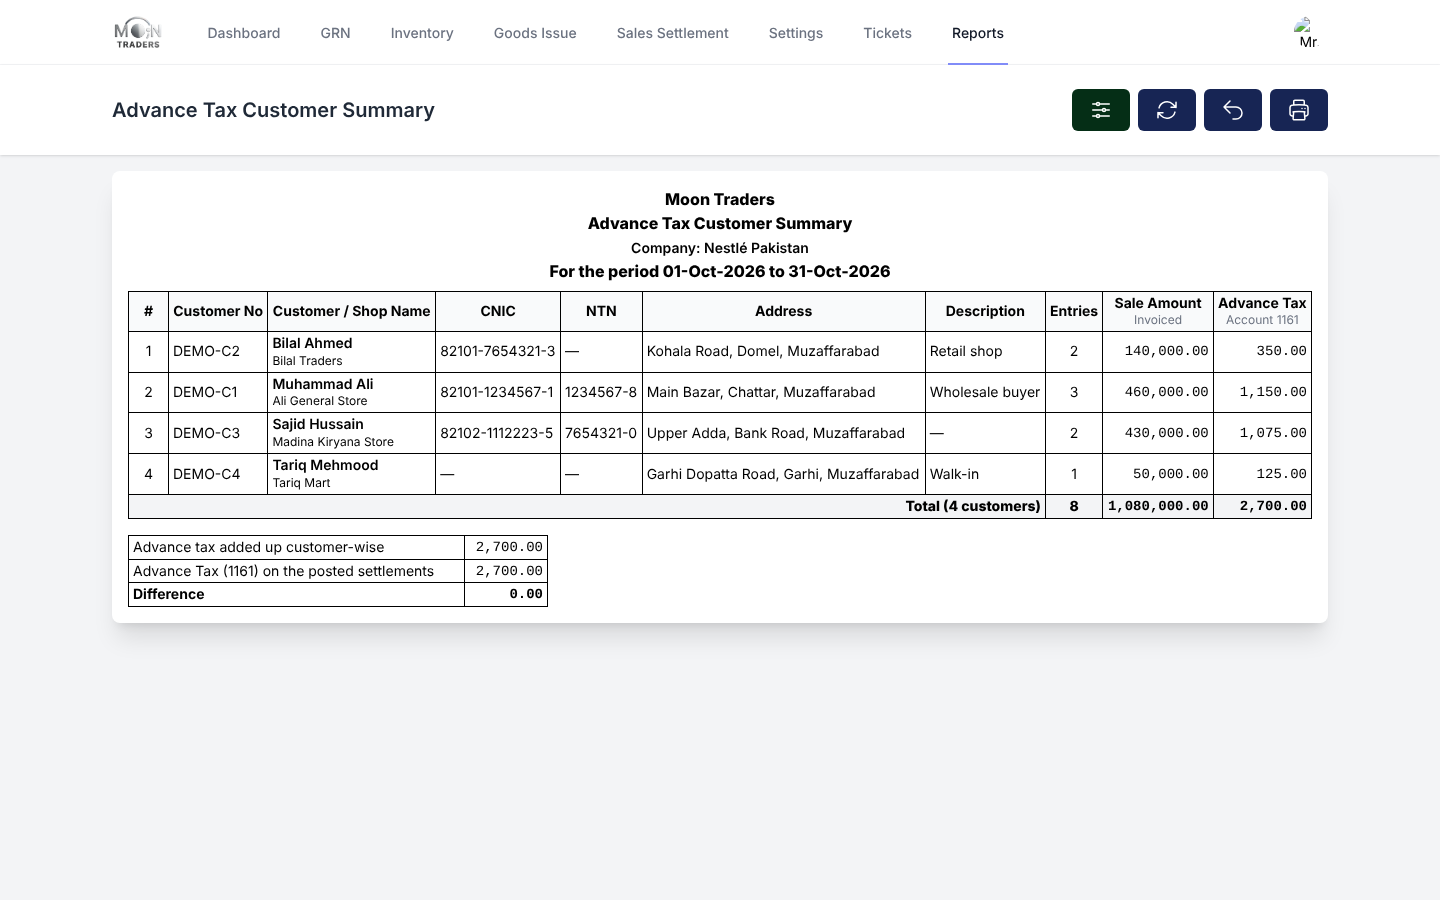
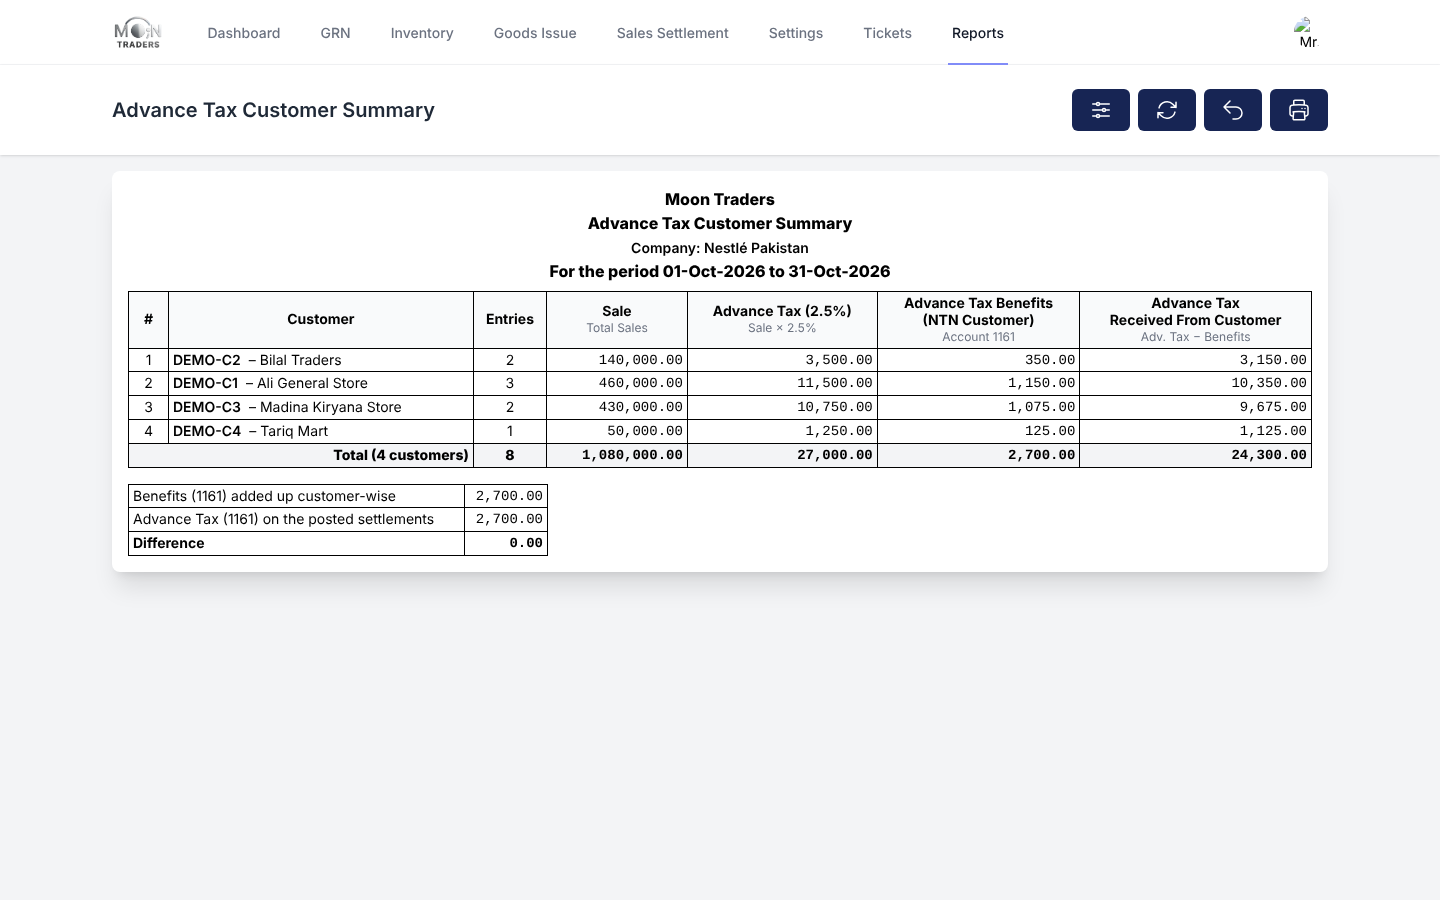
Advance Tax Customer Summary: register-style columns, customer as one column
Customer is now one column (customer code and shop name). Columns after it follow the
Advance Tax Sales Register: Entries, Sale (Total Sales), Advance Tax (2.5%), Advance Tax
Benefits (NTN Customer, account 1161) and Advance Tax Received From Customer
(Adv. Tax - Benefits). CNIC, NTN, address and description are no longer shown.

Claude-Session: https://claude.ai/code/session_01MDwDNp7qRUaKGFX7KQuxFy

Changed region(s): [[0.0625, 0.3111, 0.9375, 0.7156], [0.7188, 0.0933, 0.7812, 0.1556]]

diff --git a/resources/views/reports/advance-tax-customer-summary/index.blade.php b/resources/views/reports/advance-tax-customer-summary/index.blade.php
@@ -158,20 +158,23 @@
                         <thead>
                             <tr class="bg-gray-50">
                                 <th class="w-10 text-center font-bold">#</th>
-                                <th class="text-center font-bold px-2 whitespace-nowrap">Customer No</th>
-                                <th class="text-center font-bold px-2">Customer / Shop Name</th>
-                                <th class="text-center font-bold px-2 whitespace-nowrap">CNIC</th>
-                                <th class="text-center font-bold px-2 whitespace-nowrap">NTN</th>
-                                <th class="text-center font-bold px-2">Address</th>
-                                <th class="text-center font-bold px-2">Description</th>
+                                <th class="text-center font-bold px-2">Customer</th>
                                 <th class="text-center font-bold px-2 whitespace-nowrap">Entries</th>
-                                <th class="text-center font-bold px-2 whitespace-nowrap">
-                                    Sale Amount
-                                    <div class="text-xs font-normal text-gray-500">Invoiced</div>
+                                <th class="text-center font-bold px-2">
+                                    Sale
+                                    <div class="text-xs font-normal text-gray-500">Total Sales</div>
                                 </th>
                                 <th class="text-center font-bold px-2 whitespace-nowrap">
-                                    Advance Tax
+                                    Advance Tax (2.5%)
+                                    <div class="text-xs font-normal text-gray-500">Sale × 2.5%</div>
+                                </th>
+                                <th class="text-center font-bold px-2 whitespace-nowrap">
+                                    Advance Tax Benefits<br>(NTN Customer)
                                     <div class="text-xs font-normal text-gray-500">Account 1161</div>
+                                </th>
+                                <th class="text-center font-bold px-2 whitespace-nowrap">
+                                    Advance Tax<br>Received From Customer
+                                    <div class="text-xs font-normal text-gray-500">Adv. Tax − Benefits</div>
                                 </th>
                             </tr>
                         </thead>
@@ -180,34 +183,31 @@
                                 @php($customer = $row['customer'])
                                 <tr>
                                     <td class="text-center">{{ $index + 1 }}</td>
-                                    <td class="px-2 whitespace-nowrap">{{ $customer?->customer_code }}</td>
                                     <td class="px-2">
-                                        <span class="font-semibold">{{ $customer?->customer_name }}</span>
-                                        @if ($customer?->business_name)
-                                            <br><span class="text-xs">{{ $customer->business_name }}</span>
-                                        @endif
+                                        <span class="font-semibold">{{ $customer?->customer_code }}</span>
+                                        <span class="px-1">–</span>{{ $customer?->business_name ?: $customer?->customer_name }}
                                     </td>
-                                    <td class="px-2 whitespace-nowrap">{{ $customer?->owner_cnic ?: '—' }}</td>
-                                    <td class="px-2 whitespace-nowrap">{{ $customer?->ntn ?: '—' }}</td>
-                                    <td class="px-2">{{ collect([$customer?->address, $customer?->sub_locality, $customer?->city])->filter()->implode(', ') ?: '—' }}</td>
-                                    <td class="px-2">{{ $customer?->notes ?: '—' }}</td>
                                     <td class="text-center px-2">{{ $row['entries'] }}</td>
-                                    <td class="text-right font-mono px-2">{{ number_format($row['sale_amount'], 2) }}</td>
-                                    <td class="text-right font-mono px-2">{{ number_format($row['tax_amount'], 2) }}</td>
+                                    <td class="text-right font-mono px-2">{{ number_format($row['sale'], 2) }}</td>
+                                    <td class="text-right font-mono px-2">{{ number_format($row['advance_tax'], 2) }}</td>
+                                    <td class="text-right font-mono px-2">{{ number_format($row['benefits'], 2) }}</td>
+                                    <td class="text-right font-mono px-2">{{ number_format($row['received'], 2) }}</td>
                                 </tr>
                             @empty
                                 <tr>
-                                    <td colspan="10" class="text-center italic text-gray-500 px-2 py-2">No advance tax entries found for this company and period.</td>
+                                    <td colspan="7" class="text-center italic text-gray-500 px-2 py-2">No advance tax entries found for this company and period.</td>
                                 </tr>
                             @endforelse
                         </tbody>
                         @if ($rows->isNotEmpty())
                             <tfoot class="bg-gray-100 font-extrabold">
                                 <tr>
-                                    <td colspan="7" class="text-right px-2 py-1">Total ({{ $rows->count() }} customers)</td>
+                                    <td colspan="2" class="text-right px-2 py-1">Total ({{ $rows->count() }} customers)</td>
                                     <td class="text-center px-2 py-1">{{ $totalEntries }}</td>
                                     <td class="text-right font-mono px-2 py-1">{{ number_format($totalSale, 2) }}</td>
-                                    <td class="text-right font-mono px-2 py-1">{{ number_format($totalTax, 2) }}</td>
+                                    <td class="text-right font-mono px-2 py-1">{{ number_format($totalAdvanceTax, 2) }}</td>
+                                    <td class="text-right font-mono px-2 py-1">{{ number_format($totalBenefits, 2) }}</td>
+                                    <td class="text-right font-mono px-2 py-1">{{ number_format($totalReceived, 2) }}</td>
                                 </tr>
                             </tfoot>
                         @endif
@@ -217,8 +217,8 @@
                     <table class="report-table mt-4" style="width: auto; min-width: 420px;">
                         <tbody>
                             <tr>
-                                <td class="px-2">Advance tax added up customer-wise</td>
-                                <td class="text-right font-mono px-2">{{ number_format($totalTax, 2) }}</td>
+                                <td class="px-2">Benefits (1161) added up customer-wise</td>
+                                <td class="text-right font-mono px-2">{{ number_format($totalBenefits, 2) }}</td>
                             </tr>
                             <tr>
                                 <td class="px-2">Advance Tax (1161) on the posted settlements</td>

diff --git a/tests/Feature/AdvanceTaxCustomerSummaryReportTest.php b/tests/Feature/AdvanceTaxCustomerSummaryReportTest.php
@@ -75,7 +75,7 @@ it('asks for a company before showing anything', function () {
         ->assertOk()->assertSee('Please select a company');
 });
 
-it('adds the advance tax up per customer across settlements and shows the customer details', function () {
+it('adds the advance tax up per customer across settlements and works out the three tax columns', function () {
     $first = ($this->settle)($this->nestle->id, '2026-10-03');
     $second = ($this->settle)($this->nestle->id, '2026-10-17');
     ($this->entry)($first, $this->customerA, 100000, 250);
@@ -88,15 +88,19 @@ it('adds the advance tax up per customer across settlements and shows the custom
     expect($rows)->toHaveCount(2)
         ->and($rows[0]['customer']->customer_code)->toBe('C-1001')
         ->and($rows[0]['entries'])->toBe(2)
-        ->and($rows[0]['sale_amount'])->toBe(160000.0)
-        ->and($rows[0]['tax_amount'])->toBe(400.0)
-        ->and($rows[1]['tax_amount'])->toBe(100.0)
-        ->and($response->viewData('totalTax'))->toBe(500.0)
-        ->and($response->viewData('totalSale'))->toBe(200000.0);
+        ->and($rows[0]['sale'])->toBe(160000.0)
+        ->and($rows[0]['advance_tax'])->toBe(4000.0)
+        ->and($rows[0]['benefits'])->toBe(400.0)
+        ->and($rows[0]['received'])->toBe(3600.0)
+        ->and($rows[1]['advance_tax'])->toBe(1000.0)
+        ->and($rows[1]['received'])->toBe(900.0)
+        ->and($response->viewData('totalSale'))->toBe(200000.0)
+        ->and($response->viewData('totalAdvanceTax'))->toBe(5000.0)
+        ->and($response->viewData('totalBenefits'))->toBe(500.0)
+        ->and($response->viewData('totalReceived'))->toBe(4500.0);
 
-    $response->assertSee('C-1001')->assertSee('Ali General Store')->assertSee('Ali Mart')
-        ->assertSee('82101-1234567-1')->assertSee('1234567-8')
-        ->assertSee('Main Bazar, Chattar, Muzaffarabad')->assertSee('Wholesale buyer');
+    $response->assertSee('C-1001')->assertSee('Ali Mart')->assertSee('Received From Customer', false)
+        ->assertDontSee('82101-1234567-1')->assertDontSee('Main Bazar');
 });
 
 it('reads entries of suppliers that store advance tax as income as well', function () {
@@ -106,7 +110,7 @@ it('reads entries of suppliers that store advance tax as income as well', functi
 
     $rows = $this->actingAs($this->admin)->get(($this->url)())->viewData('rows');
 
-    expect($rows)->toHaveCount(1)->and($rows[0]['tax_amount'])->toBe(250.0)->and($rows[0]['entries'])->toBe(2);
+    expect($rows)->toHaveCount(1)->and($rows[0]['benefits'])->toBe(250.0)->and($rows[0]['entries'])->toBe(2);
 });
 
 it('leaves out drafts, other dates and other companies', function () {
@@ -118,7 +122,7 @@ it('leaves out drafts, other dates and other companies', function () {
     $response = $this->actingAs($this->admin)->get(($this->url)());
 
     expect($response->viewData('rows'))->toHaveCount(1)
-        ->and($response->viewData('totalTax'))->toBe(250.0)
+        ->and($response->viewData('totalBenefits'))->toBe(250.0)
         ->and($response->viewData('totalSale'))->toBe(100000.0);
 });
 
@@ -132,7 +136,7 @@ it('cross-checks the customer-wise total with the 1161 amount posted on the sett
 
     $response = $this->actingAs($this->admin)->get(($this->url)());
 
-    expect($response->viewData('totalTax'))->toBe(350.0)
+    expect($response->viewData('totalBenefits'))->toBe(350.0)
         ->and($response->viewData('benefitsPosted'))->toBe(350.0)
         ->and($response->viewData('difference'))->toBe(0.0);
 
@@ -147,7 +151,7 @@ it('lets a company user see only their own company', function () {
 
     $this->actingAs($this->companyUser)
         ->get(route('reports.advance-tax-customer-summary.index', ['filter' => ['start_date' => '2026-10-01', 'end_date' => '2026-10-31']]))
-        ->assertOk()->assertSee('Ali General Store');
+        ->assertOk()->assertSee('C-1001')->assertSee('Ali Mart');
 
     $this->actingAs($this->companyUser)->get(($this->url)(['supplier_id' => $this->other->id]))->assertForbidden();
 });

diff --git a/app/Http/Controllers/Reports/AdvanceTaxCustomerSummaryController.php b/app/Http/Controllers/Reports/AdvanceTaxCustomerSummaryController.php
@@ -26,6 +26,11 @@ class AdvanceTaxCustomerSummaryController extends Controller implements HasMiddl
     private const ADVANCE_TAX_ACCOUNT_CODE = '1161';
 
     /**
+     * Advance tax charged on sales, the same 2.5% the Advance Tax Sales Register uses.
+     */
+    private const ADVANCE_TAX_RATE = 0.025;
+
+    /**
      * Per-customer advance tax entries live in one table for normal suppliers and in the
      * "income" table for suppliers flagged is_advance_tax_income. A supplier only ever
      * writes to one of them, so both are read and added together.
@@ -78,7 +83,7 @@ class AdvanceTaxCustomerSummaryController extends Controller implements HasMiddl
             $benefitsPosted = $this->postedBenefits($selectedSupplier->id, $startDate, $endDate);
         }
 
-        $totalTax = (float) $rows->sum('tax_amount');
+        $totalBenefits = (float) $rows->sum('benefits');
 
         return view('reports.advance-tax-customer-summary.index', [
             'rows' => $rows,
@@ -89,15 +94,18 @@ class AdvanceTaxCustomerSummaryController extends Controller implements HasMiddl
             'endDate' => $endDate,
             'hasFilter' => $selectedSupplier !== null,
             'totalEntries' => (int) $rows->sum('entries'),
-            'totalSale' => (float) $rows->sum('sale_amount'),
-            'totalTax' => $totalTax,
+            'totalSale' => (float) $rows->sum('sale'),
+            'totalAdvanceTax' => (float) $rows->sum('advance_tax'),
+            'totalBenefits' => $totalBenefits,
+            'totalReceived' => (float) $rows->sum('received'),
             'benefitsPosted' => $benefitsPosted,
-            'difference' => round($totalTax - $benefitsPosted, 2),
+            'difference' => round($totalBenefits - $benefitsPosted, 2),
         ]);
     }
 
     /**
-     * One row per customer: entries, sale amount and advance tax added up, plus the customer details.
+     * One row per customer, added up over the dates: entries, sale, advance tax on that sale (2.5%),
+     * the advance tax benefit given (account 1161) and what was received from the customer.
      *
      * @return Collection<int, array<string, mixed>>
      */
@@ -130,8 +138,10 @@ class AdvanceTaxCustomerSummaryController extends Controller implements HasMiddl
                 'customer_id' => $customerId,
                 'customer' => $customers->get($customerId),
                 'entries' => $total['entries'],
-                'sale_amount' => $total['sale_amount'],
-                'tax_amount' => $total['tax_amount'],
+                'sale' => $total['sale_amount'],
+                'advance_tax' => $total['sale_amount'] * self::ADVANCE_TAX_RATE,
+                'benefits' => $total['tax_amount'],
+                'received' => $total['sale_amount'] * self::ADVANCE_TAX_RATE - $total['tax_amount'],
             ])
             ->sortBy(fn (array $row) => mb_strtolower((string) $row['customer']?->customer_name))
             ->values();
